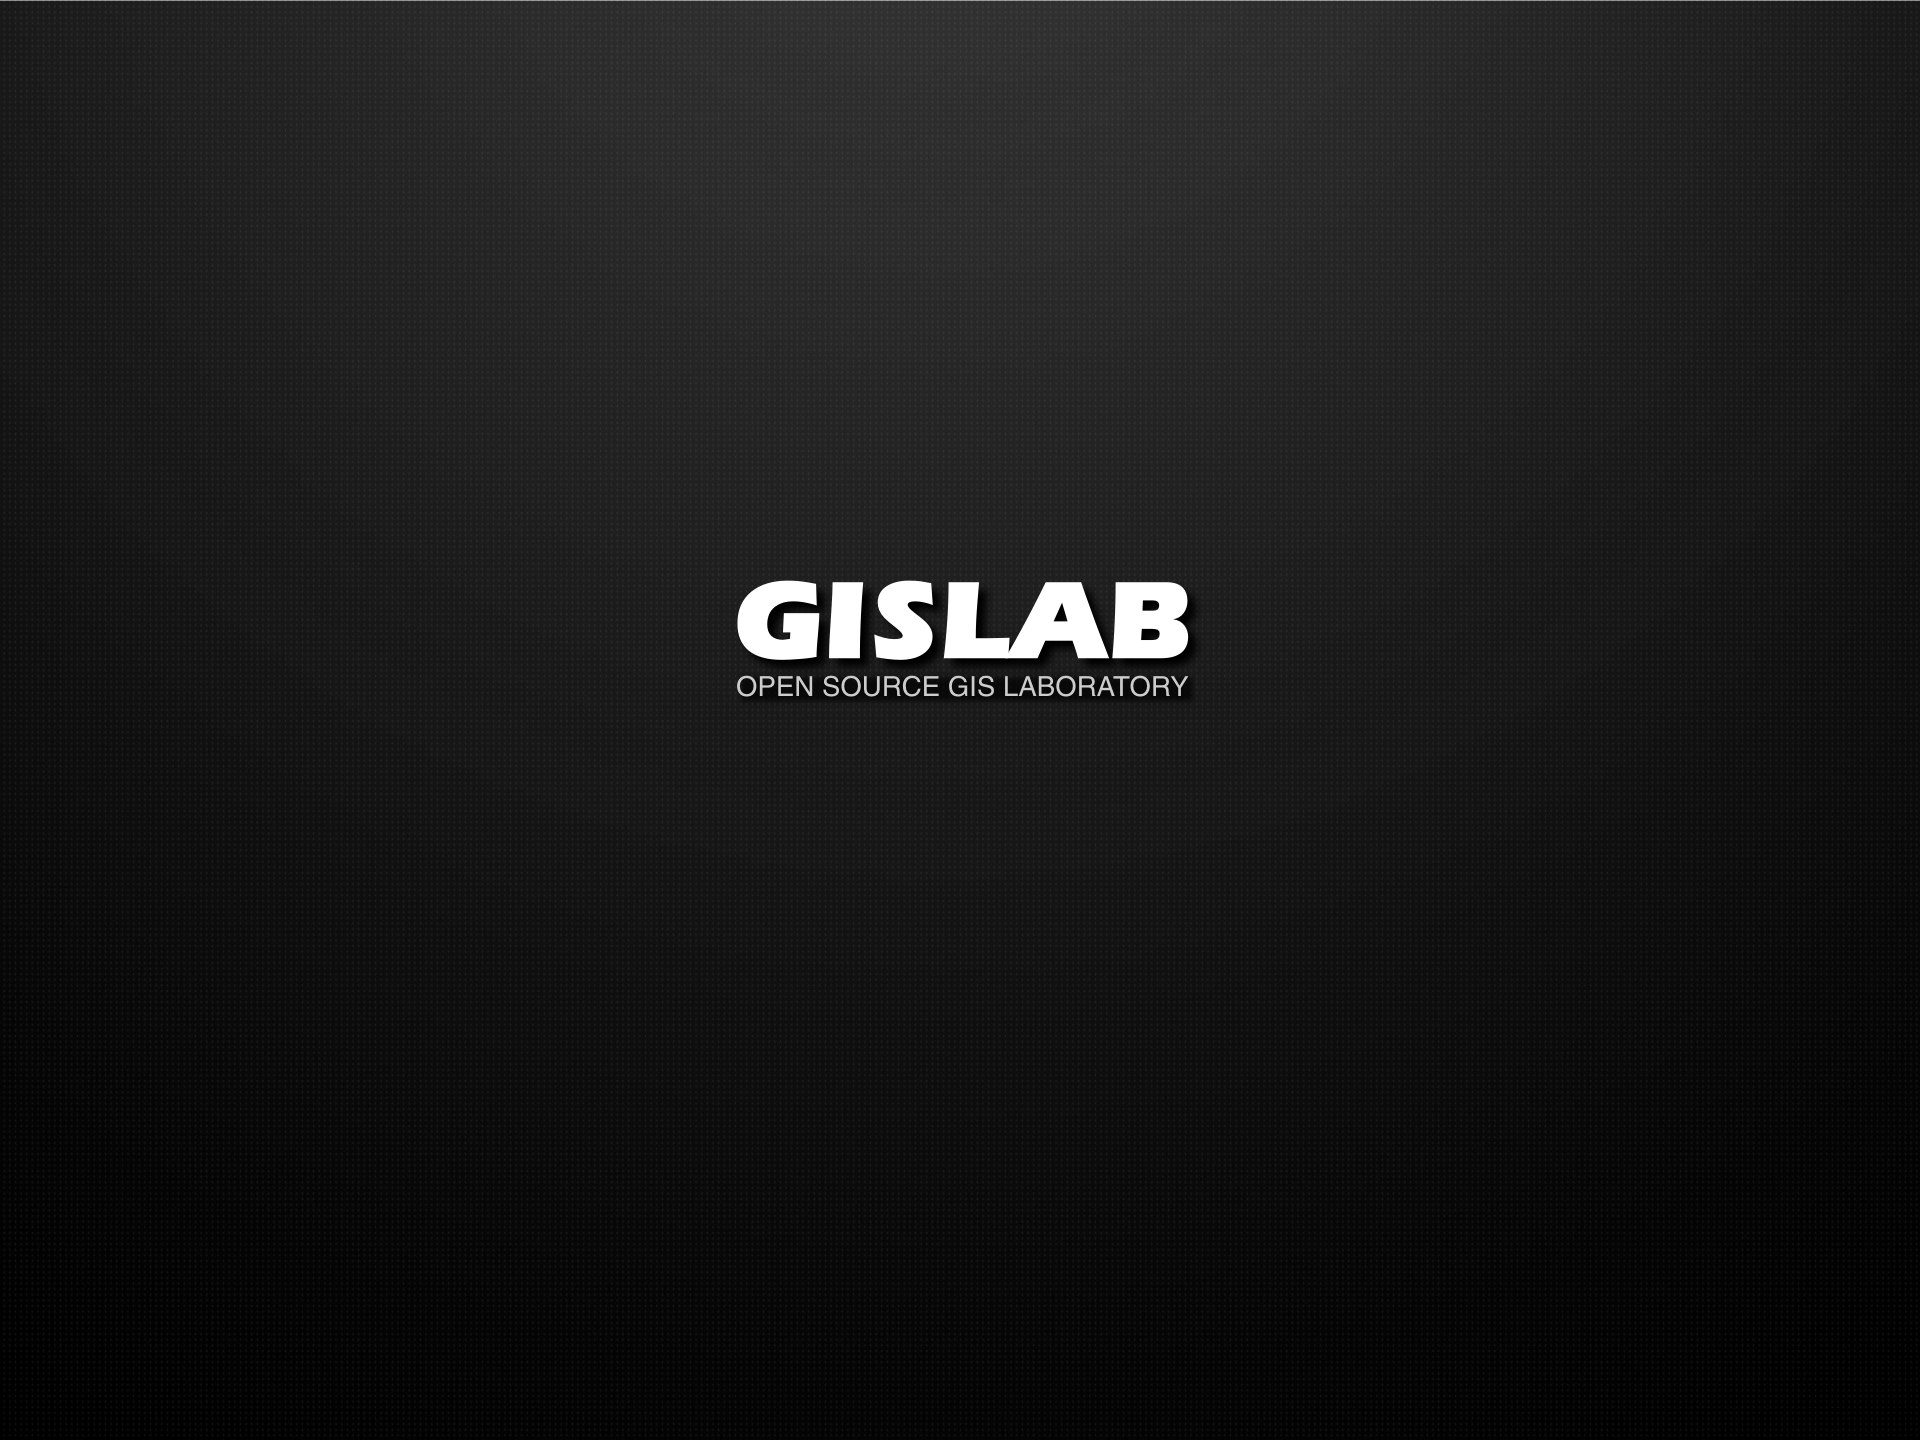
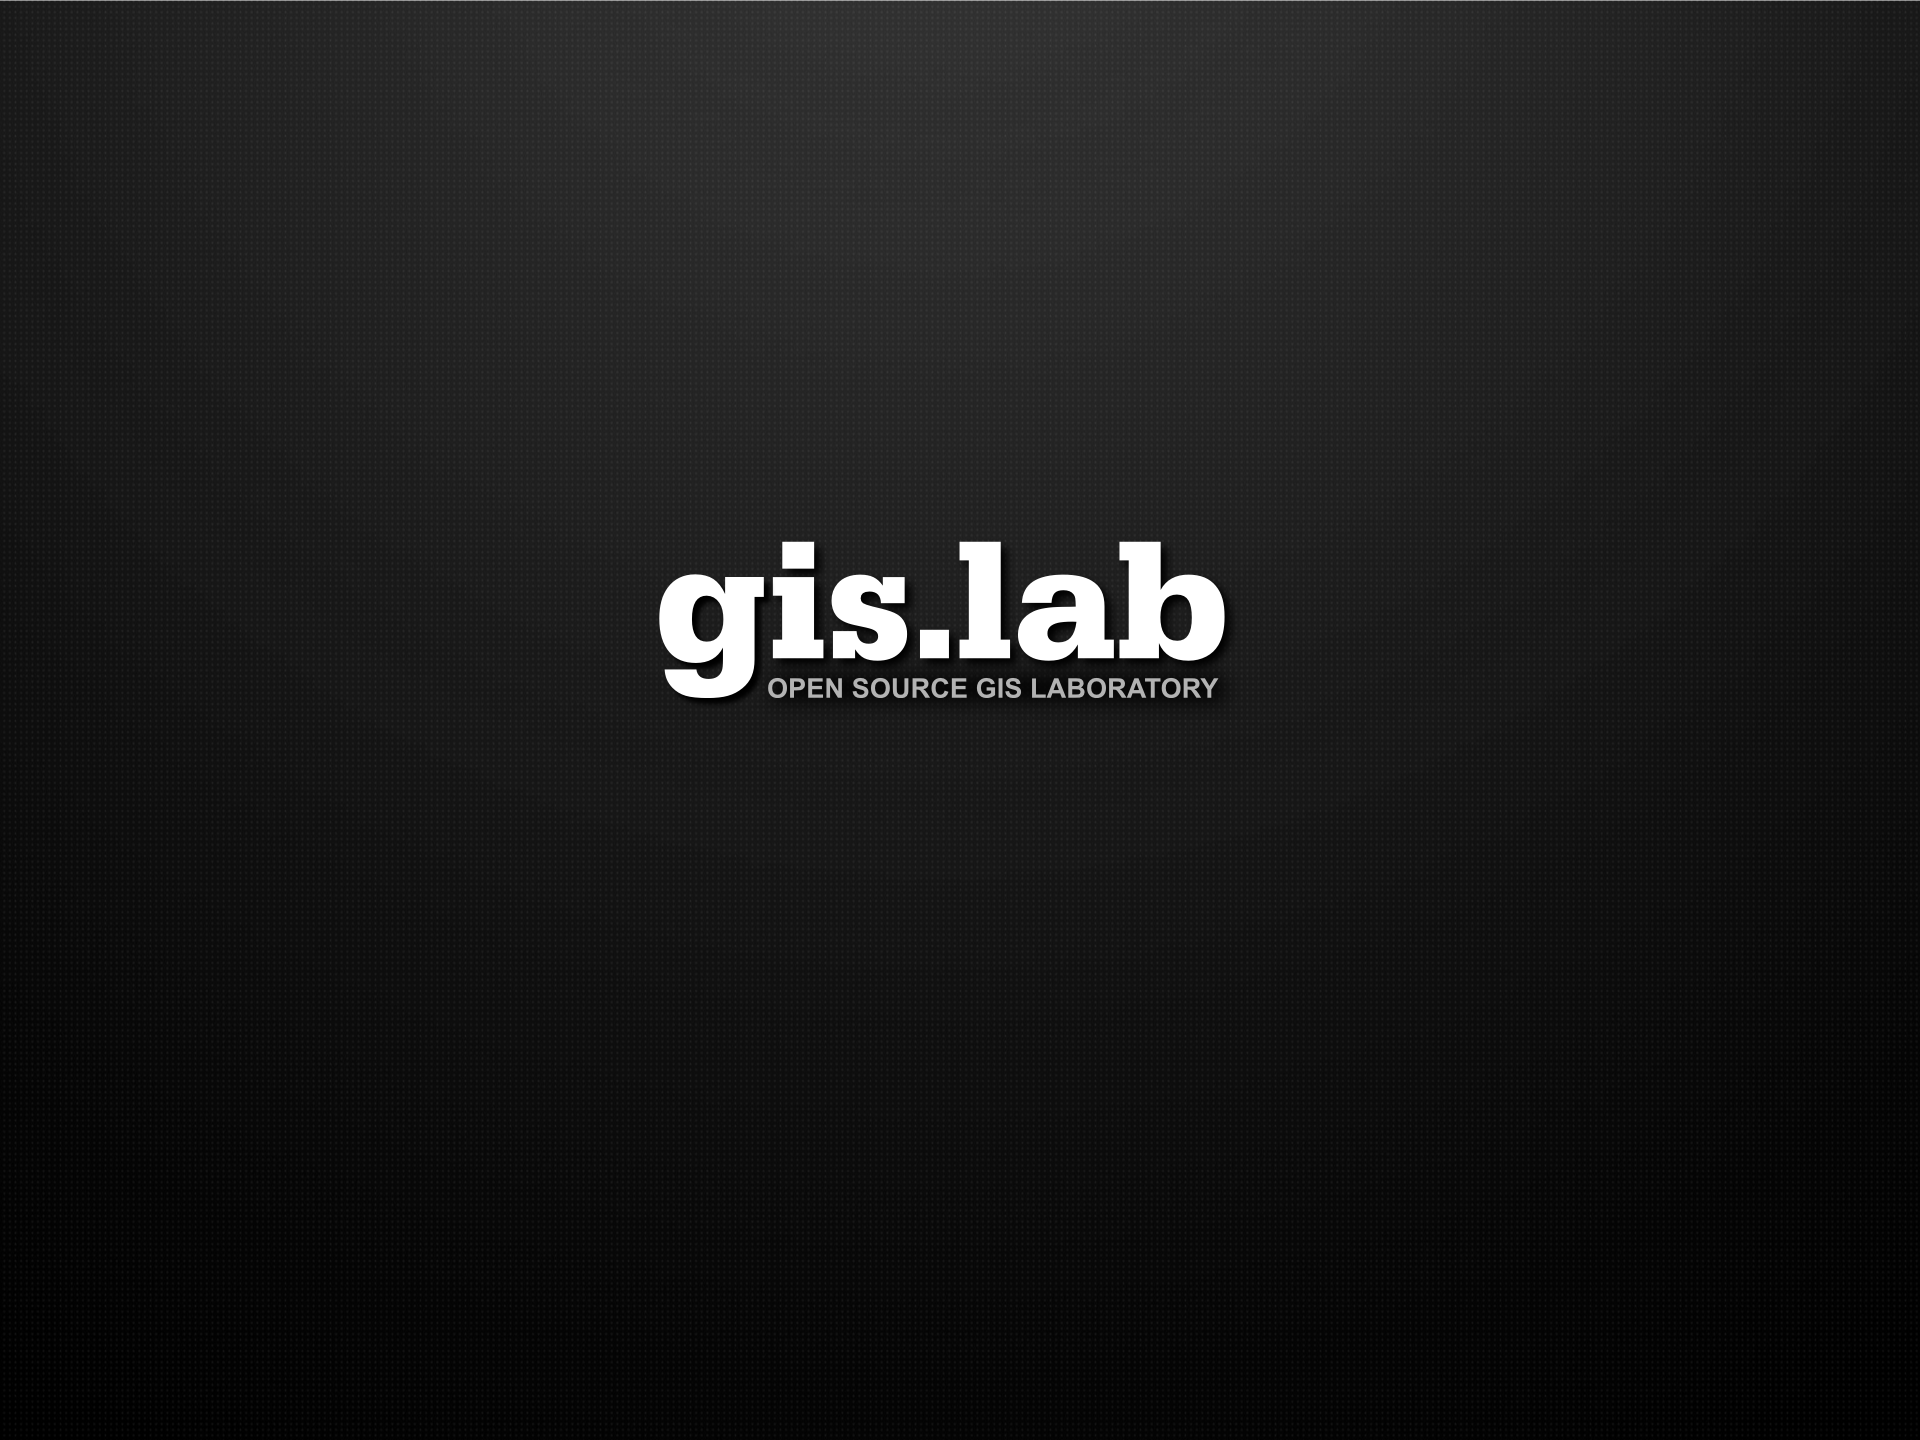
Renaming project to 'gis.lab'.

Changed region(s): [[0.3438, 0.375, 0.6562, 0.5]]

diff --git a/README.md b/README.md
@@ -49,11 +49,11 @@ Download a Vagrant box
 $ vagrant box add precise32 http://files.vagrantup.com/precise32.box
 ```
 
-Download latest GIS LAB package from https://github.com/imincik/gis-lab/releases
+Download latest gis.lab package from https://github.com/imincik/gis-lab/releases
 
 or
 
-clone GIS LAB sources if You are developer or familiar with Git
+clone gis.lab sources if You are developer or familiar with Git
 ```
 $ git clone https://github.com/imincik/gis-lab.git
 ```
@@ -72,7 +72,7 @@ Connect host machine to client machines via gigabit switch and cable (CAT 5e or 
 
 Configure client machines BIOS to boot from LAN (PXE) or use boot manager (usually activated by F12 early on start) and enjoy
 
-Do not forget to shut down GIS LAB server before shutting down host machine
+Do not forget to shut down gis.lab server before shutting down host machine
 ```
 $ vagrant halt
 ```
@@ -83,7 +83,7 @@ Upgrade
 Currently, in this phase of development we provide only hard upgrade process where whole system including data
 is going to be replaced. Later we will add much more sophisticated approach. Please backup your data !
 
-Update GIS LAB sources
+Update gis.lab sources
 ```
 $ git pull
 ```
@@ -141,8 +141,8 @@ $ ip addr del 192.168.50.2/24 dev eth0
 ```
 
 
-Working with GIS LAB
-------------------
+Working with gis.lab
+--------------------
 ### User accounts
 By default, user accounts specified in GISLAB_USER_ACCOUNTS_AUTO are created automatically after installation.
 You can also create or delete additional accounts manually:
@@ -151,7 +151,7 @@ You can also create or delete additional accounts manually:
 
 
 ### File sharing
-GIS LAB offers out-of-box file sharing solution inside its LAN. All client users can find three different shared
+gis.lab offers out-of-box file sharing solution inside its LAN. All client users can find three different shared
 directories in their home directory, each one with different access policy:
  * Repository: directory with read-only permissions for users
  * Share: directory with read permissions for anybody and write permissions for file owner
@@ -162,7 +162,7 @@ always good idea to umount it before shutting down gis.lab server. If forgotten 
 
 
 ### Built-in automatic WebGIS viewer
-One of the nice features of GIS LAB is WebGIS viewer application which is automatically generated for
+One of the nice features of gis.lab is WebGIS viewer application which is automatically generated for
 each user's QGIS project.
 Simply save a QGIS project and all file data to '~/Share/<USERNAME>' directory with setting these required configuration:
  * use relative paths (File > Project Properties > General > Save paths). The safest way is to save Your data and project
@@ -174,19 +174,19 @@ Simply save a QGIS project and all file data to '~/Share/<USERNAME>' directory w
 and launch following URL in a web browser:
 ```
 format:
-http://webgis.gislab.lan/?PROJECT=<PATH-TO-QGIS-PROJECT-FILE>
+http://webgis.gis.lab/?PROJECT=<PATH-TO-QGIS-PROJECT-FILE>
 
 * PATH-TO-QGIS-PROJECT-FILE must be relative to '~/Share' directory
 
 example for user 'lab1' which saved a project file 'myproject.qgs' to ~/Share/lab1/projects directory:
-http://webgis.gislab.lan/?PROJECT=lab1/projects/myproject.qgs
+http://webgis.gis.lab/?PROJECT=lab1/projects/myproject.qgs
 
 ```
 
 Additionally, it is possible to configure behavior of WebGIS app via GET parameters in URL.
 ```
 format:
-http://webgis.gislab.lan/?PROJECT=<PATH-TO-QGIS-PROJECT-FILE>&<PARAMETER>=<value>&<PARAMETER>=<value>...
+http://webgis.gis.lab/?PROJECT=<PATH-TO-QGIS-PROJECT-FILE>&<PARAMETER>=<value>&<PARAMETER>=<value>...
 
 ```
 
